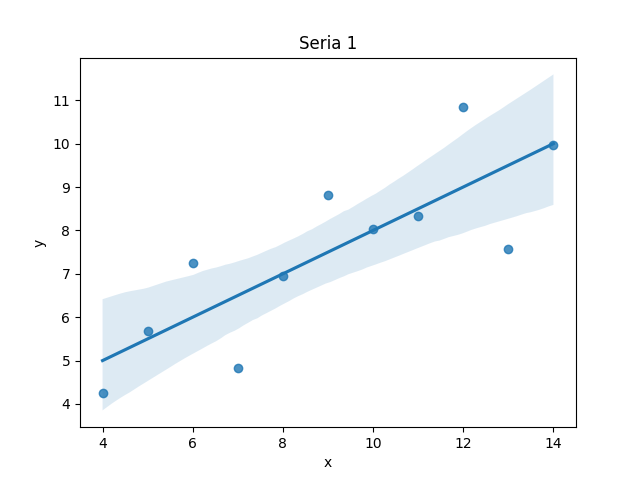
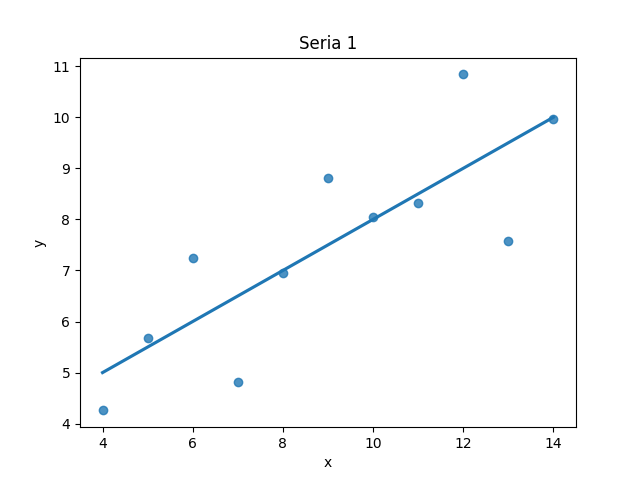
Confidence interval removed

diff --git a/lab1.py b/lab1.py
@@ -35,7 +35,7 @@ for i in tqdm(range(4)):
         b1 = round(reg.coef_[0], 5)
         b0 = round(reg.intercept_, 5)
         f.write(f'Coeff B0:{b0} B1:{b1}')
-    sns.regplot(data=data, x='x', y='y')
+    sns.regplot(data=data, x='x', y='y', ci=0)
     plt.title(f'Seria {i + 1}')
 
     plot_path = PLOTS_PATH / f'plot_{i + 1}'
